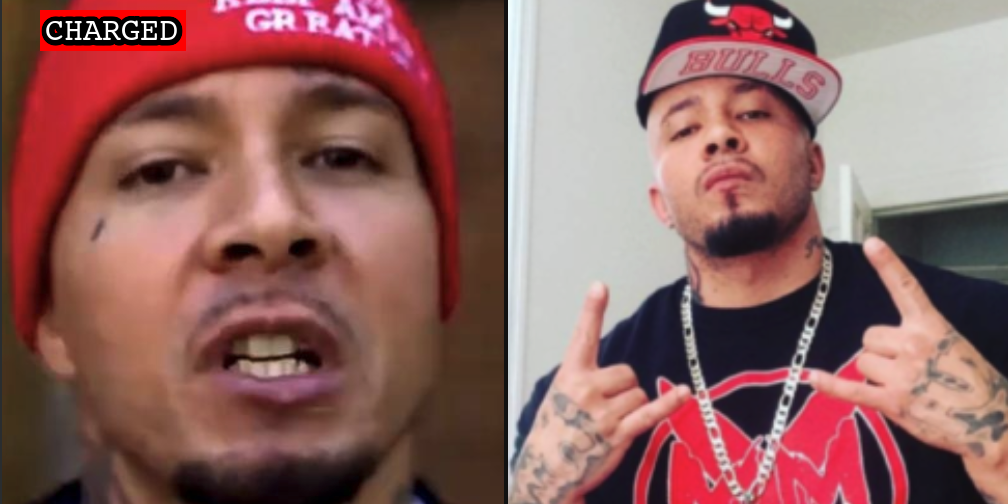
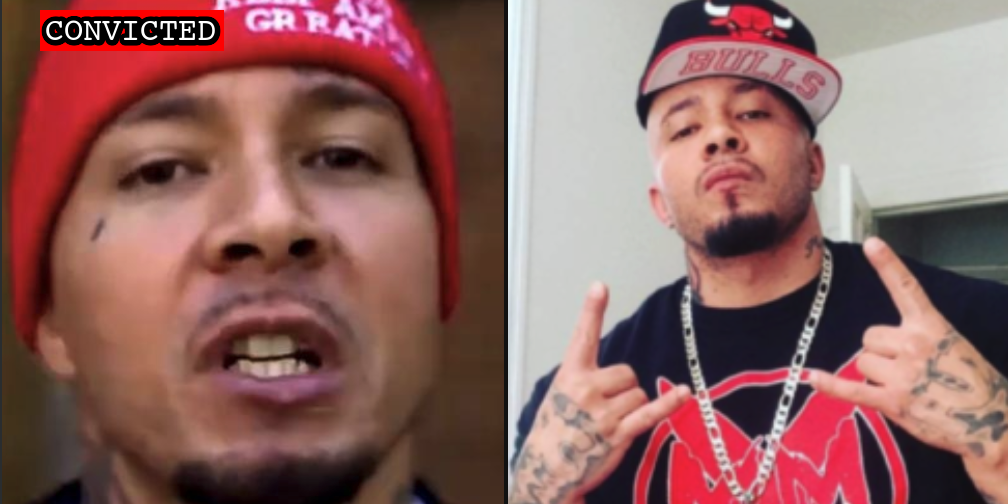
Knutson plea deal

Changed region(s): [[0.0615, 0.0, 0.246, 0.119]]

diff --git a/docs/_suspects/billy-knutson.md b/docs/_suspects/billy-knutson.md
@@ -4,16 +4,18 @@ lastName: Knutson
 hashtag: PlayboyTheBeast
 aka: Playboy The Beast
 residence: North Carolina
-status: Charged
+status: Convicted
 date: 2022-01-12
 charged: 2022-01-12
 indicted:
-convicted:
+convicted: 2022-04-13
+acquitted:
 sentenced:
 dismissed:
 deceased:
-plea_hearing:
-sentencing:
+plea_hearing: 2022-04-13
+trial_date:
+sentencing: 2022-07-22
 age: 36
 occupation:
 affiliations: Proud Boys
@@ -34,9 +36,16 @@ published: true
 caseNumber: 1:22-mj-000
 videos:
 charges:
+  - code: 18 USC § 1752(a)(1)
+    title: Entering a restricted building or grounds
+    url: https://www.law.cornell.edu/uscode/text/18/1752
+    felony: false
 sentence:
 ---
+
 - [News Report](https://www.billboard.com/music/rb-hip-hop/south-dakota-man-charged-capitol-riot-rap-videos-1235019121/)
 - [Complaint](https://www.justice.gov/usao-dc/case-multi-defendant/file/1481301/download)
-- [Information](https://extremism.gwu.edu/sites/g/files/zaxdzs2191/f/Billy%20Knutson%20Information.pdf)
+- [Information](https://www.justice.gov/usao-dc/case-multi-defendant/file/1494351/download)
 - [Statement of Facts](https://www.justice.gov/usao-dc/case-multi-defendant/file/1481306/download)
+- [Plea Agreement](https://storage.courtlistener.com/recap/gov.uscourts.dcd.239501/gov.uscourts.dcd.239501.23.0.pdf)
+- [Statement of Offense](https://www.justice.gov/usao-dc/case-multi-defendant/file/1494346/download)
